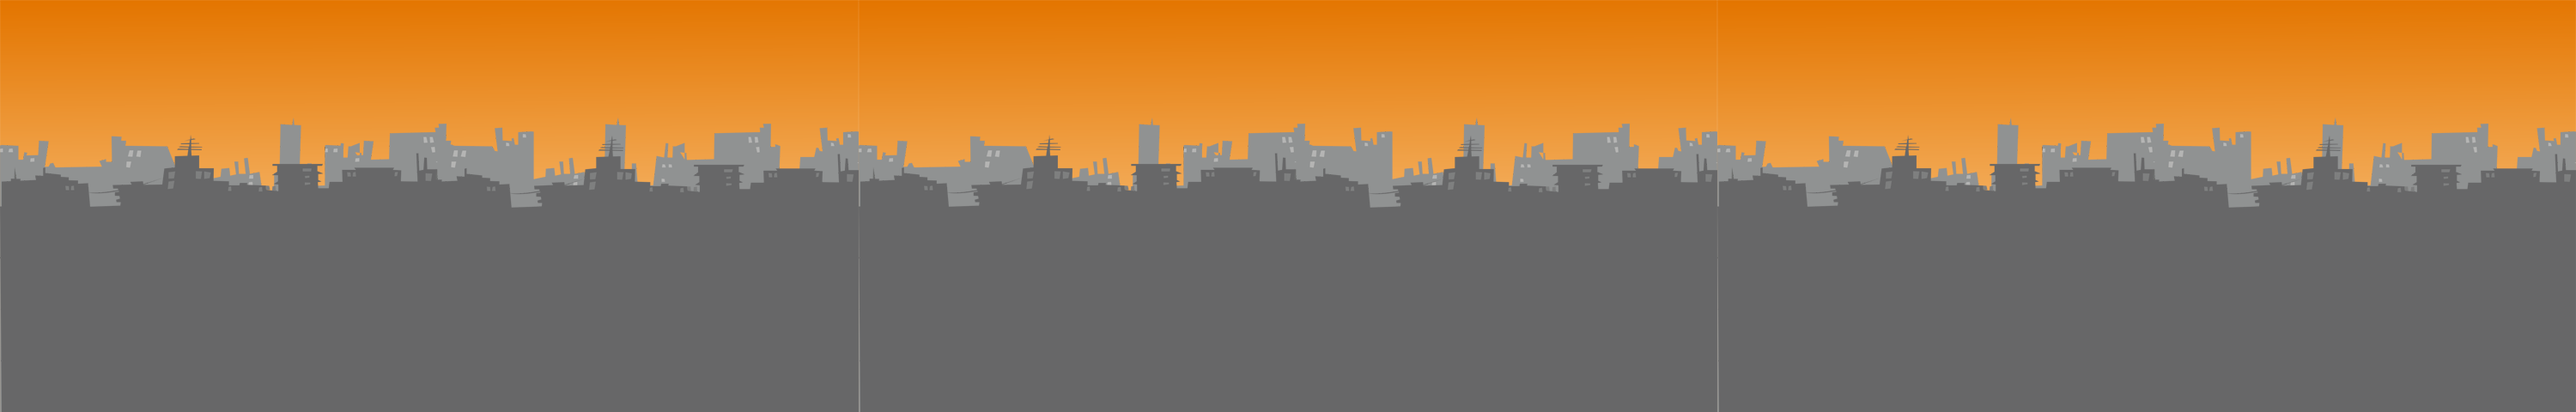
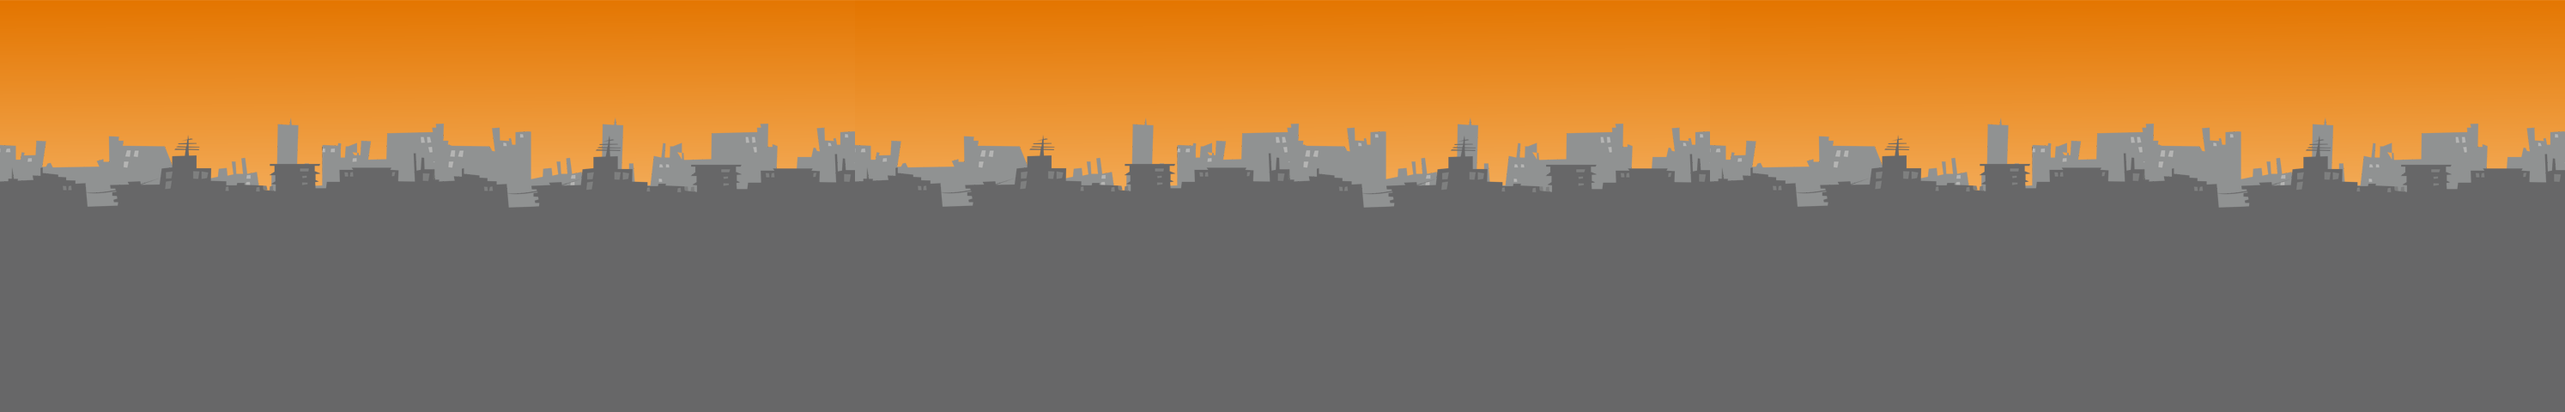
Arreglo un bug de parallax al llegar al borde global
Al llegar al borde izquierdo, si te ponias en el centro, despues no te dejaba moverte a la izquierda.
Tambien arregle las imagenes de fondo, y agregue de repuesto las mismas pero con doble de ancho

diff --git a/source/model/Personaje.cpp b/source/model/Personaje.cpp
@@ -23,9 +23,7 @@ Personaje::Personaje(ControladorGrafico &graficos, string nombre, int posicionXi
 	this->alto = controladorJson->alturaPersonaje(nombre);
 	this->ancho = controladorJson->anchoPersonaje(nombre);
 	this->posy=controladorJson->alturaVentana() *9/16; //DEPENDE DEL FONDO Z3
-	this->spriteAnimado=SpriteAnimado(graficos,controladorJson->pathImagen(nombre));
-	this->spriteAnimado.cargarAnimaciones(nombre);
-	this->spriteAnimado.iniciarAnimacion("quieto");
+	this->spriteAnimado=SpriteAnimado(graficos,controladorJson->pathImagen(nombre),nombre);
 	this->velocidadInicial = sqrt(constanteDeAltura * alto);
 	this->flip = flip;
 }
@@ -33,25 +31,22 @@ Personaje::Personaje(ControladorGrafico &graficos, string nombre, int posicionXi
 void Personaje::dibujar(ControladorGrafico &graficos){
 	if(saltando)
 		this->Saltar();
-	this->spriteAnimado.update();
 	if(this->spriteAnimado.getAnimacionActual()=="movDerecha")
 			this->spriteAnimado.dibujar(graficos,this->posxrelativo,this->posy,alto,ancho, this->flip);
 	else if(this->spriteAnimado.getAnimacionActual()=="movIzquierda")
-				this->spriteAnimado.dibujar(graficos,this->posxrelativo,this->posy,alto, ancho, this->flip);
+			this->spriteAnimado.dibujar(graficos,this->posxrelativo,this->posy,alto, ancho, this->flip);
 	else
 			this->spriteAnimado.dibujar(graficos,this->posx,this->posy,alto, ancho, this->flip);
+	this->spriteAnimado.update();
 
 }
 
-bool Personaje::MoverDerecha(Personaje *enemigo){
+bool Personaje::MoverDerecha(Personaje *enemigo,bool finEscenarioDerecha){
 	SDL_Rect rect_enemigo = enemigo->obtenerRectangulo();
-
-	if(!saltando){
+	if(!saltando)
 		this->spriteAnimado.iniciarAnimacion("movDerecha");
-	}
-
 	if(posx + ancho >limiteFondoDer){
-		if (rect_enemigo.x > limiteFondoIzq){
+		if (rect_enemigo.x > limiteFondoIzq && !finEscenarioDerecha){
 			enemigo->CorrerAIzquierda();
 			return true;
 		}
@@ -62,23 +57,20 @@ bool Personaje::MoverDerecha(Personaje *enemigo){
 	return false;
 }
 
-bool Personaje::MoverIzquierda(Personaje *enemigo){
+bool Personaje::MoverIzquierda(Personaje *enemigo,bool finEscenarioIzquierda){
 	SDL_Rect rect_enemigo = enemigo->obtenerRectangulo();
-
-		if(!saltando){
-			this->spriteAnimado.iniciarAnimacion("movIzquierda");
+	if(!saltando)
+		this->spriteAnimado.iniciarAnimacion("movIzquierda");
+	if(posx  < limiteFondoIzq){
+		if (rect_enemigo.x + rect_enemigo.w < limiteFondoDer && !finEscenarioIzquierda){
+			enemigo->CorrerADerecha();
+			return true;
 		}
-
-		if(posx  < limiteFondoIzq){
-			if (rect_enemigo.x + rect_enemigo.w < limiteFondoDer ){
-				enemigo->CorrerADerecha();
-				return true;
-			}
-			return false;
-		}
-		this->posxrelativo=this->posx;
-		this->posx=this->posx-velocidad;
 		return false;
+	}
+	this->posxrelativo=this->posx;
+	this->posx=this->posx-velocidad;
+	return false;
 }
 
 void Personaje::CorrerAIzquierda(){

diff --git a/source/model/Juego.cpp b/source/model/Juego.cpp
@@ -67,6 +67,8 @@ void Juego::teclear(ControladorGrafico &grafico, SDL_Event evento){
 	const Uint8 *keys = SDL_GetKeyboardState(NULL);
 	Personaje* personaje1 = jugador1->devolverPersonajeActual();
 	Personaje* personaje2 = jugador2->devolverPersonajeActual();
+	bool finEscenarioDerecha = parallax->finDeEscenarioDerecha();
+	bool finEscenarioIzquierda = parallax->finDeEscenarioIzquierda();
 	while(SDL_PollEvent(&evento)){
 			if (evento.type == SDL_QUIT  || keys[SDL_SCANCODE_ESCAPE] ){
 				isRunning = false;
@@ -86,15 +88,15 @@ void Juego::teclear(ControladorGrafico &grafico, SDL_Event evento){
 			}
 			//Jugador 1
 			 if (keys[SDL_SCANCODE_D]){
-				if(! personaje1->colisionaAlaDerecha(personaje2->obtenerRectangulo() ) &&  !parallax->finDeEscenarioDerecha() ){
-					if(personaje1->MoverDerecha(personaje2)) this->parallax->MoverCamaraDerecha();
+				if(! personaje1->colisionaAlaDerecha(personaje2->obtenerRectangulo() )  ){
+					if(personaje1->MoverDerecha(personaje2,finEscenarioDerecha)) this->parallax->MoverCamaraDerecha();
 					controladorLogger->registrarEvento("DEBUG", "Juego::Jugador 1 a la derecha");
 				}
 
 			}
 			if (keys[SDL_SCANCODE_A]){
-				if(! personaje1->colisionaAlaIzquierda(personaje2->obtenerRectangulo() )  &&  !parallax->finDeEscenarioIzquierda()){
-					if (personaje1->MoverIzquierda(personaje2)) this->parallax->MoverCamaraIzquierda();
+				if(! personaje1->colisionaAlaIzquierda(personaje2->obtenerRectangulo() )  ){
+					if (personaje1->MoverIzquierda(personaje2,finEscenarioIzquierda)) this->parallax->MoverCamaraIzquierda();
 					controladorLogger->registrarEvento("DEBUG", "Juego::Jugador 1 a la izquierda");
 				}
 			}
@@ -108,14 +110,14 @@ void Juego::teclear(ControladorGrafico &grafico, SDL_Event evento){
 			}
 			//Jugador2
 		   if (keys[SDL_SCANCODE_RIGHT]){
-			   if(! personaje2->colisionaAlaDerecha(personaje1->obtenerRectangulo()) &&  !parallax->finDeEscenarioDerecha()){
-					if(personaje2->MoverDerecha(personaje1) ) this->parallax->MoverCamaraDerecha();
+			   if(! personaje2->colisionaAlaDerecha(personaje1->obtenerRectangulo()) ){
+					if(personaje2->MoverDerecha(personaje1, finEscenarioDerecha) ) this->parallax->MoverCamaraDerecha();
 					controladorLogger->registrarEvento("DEBUG", "Juego::Jugador 2 a la derecha");
 			   }
 		    }
 		    if (keys[SDL_SCANCODE_LEFT]){
-		    	if(! personaje2->colisionaAlaIzquierda(personaje1->obtenerRectangulo()) &&  !parallax->finDeEscenarioIzquierda()){
-		    		if (personaje2->MoverIzquierda(personaje1)) this->parallax->MoverCamaraIzquierda();
+		    	if(! personaje2->colisionaAlaIzquierda(personaje1->obtenerRectangulo()) ){
+		    		if (personaje2->MoverIzquierda(personaje1,finEscenarioIzquierda)) this->parallax->MoverCamaraIzquierda();
 					controladorLogger->registrarEvento("DEBUG", "Juego::Jugador 2 a la izquierda");
 		    	}
 		    }

diff --git a/source/view/SpriteAnimado.cpp b/source/view/SpriteAnimado.cpp
@@ -8,8 +8,9 @@ using namespace std;
 SpriteAnimado::SpriteAnimado(){
 }
 
-SpriteAnimado::SpriteAnimado(ControladorGrafico &graficos, const string &filePath){
+SpriteAnimado::SpriteAnimado(ControladorGrafico &graficos, const string &filePath, string nombre){
 	this->spriteSheet = SDL_CreateTextureFromSurface(graficos.getRenderer(),graficos.cargarImagen(filePath));
+	cargarAnimaciones(nombre);
 }
 
 string SpriteAnimado::getAnimacionActual(){
@@ -35,7 +36,7 @@ void SpriteAnimado::cargarAnimaciones(string nombre){
 		Animacion *moverDerecha = new Animacion("movDerecha",12,0,120,100,99,1);
 		Animacion *moverIzquierda = new Animacion("movIzquierda",12,0,120,100,99,1);
 		Animacion *salto = new Animacion("salto",14,0,473,100,135,2);
-		Animacion *agacharse = new Animacion("agacharse",13,0,1208,110,66,8);
+		Animacion *agacharse = new Animacion("agacharse",13,0,1180,110,90,8);
 		animaciones.push_back(quieto);
 		animaciones.push_back(moverDerecha);
 		animaciones.push_back(moverIzquierda);

diff --git a/headers/model/Personaje.hpp b/headers/model/Personaje.hpp
@@ -18,8 +18,8 @@ class Personaje{
 		Personaje(ControladorGrafico &grafico, std::string nombre, int posicionXinicial, SDL_RendererFlip flip);
 		~Personaje();
 		void dibujar(ControladorGrafico &grafico);
-		bool MoverDerecha(Personaje *enemigo);
-		bool MoverIzquierda(Personaje *enemigo);
+		bool MoverDerecha(Personaje *enemigo, bool finEscenarioDerecha);
+		bool MoverIzquierda(Personaje *enemigo,bool finEscenarioIzquierda);
 		void CorrerADerecha();
 		void CorrerAIzquierda();
 		void Saltar();

diff --git a/headers/view/SpriteAnimado.hpp b/headers/view/SpriteAnimado.hpp
@@ -13,7 +13,7 @@ class SpriteAnimado{
 	public:
 
 		SpriteAnimado();
-		SpriteAnimado(ControladorGrafico &graficos, const string &filePath);
+		SpriteAnimado(ControladorGrafico &graficos, const string &filePath, string nombre);
 		void iniciarAnimacion(string animacion);
 		void update();
 		void dibujar(ControladorGrafico &graficos, int x, int y,int alto, int ancho, SDL_RendererFlip flip);
